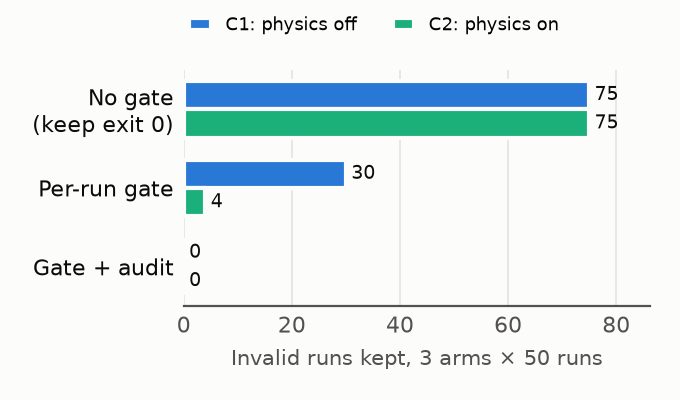
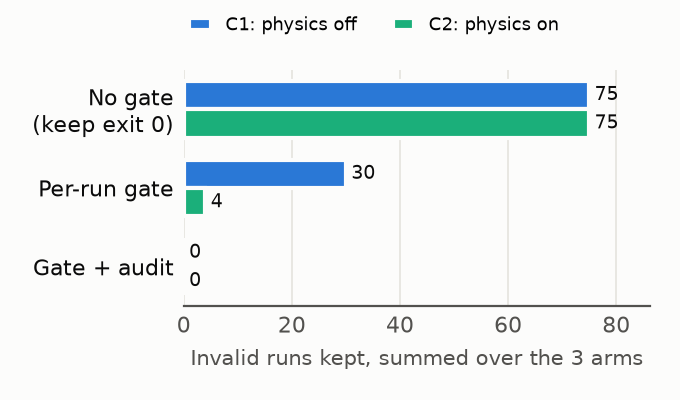
Report and figure: add C4

Changed region(s): [[0.2779, 0.87, 0.9574, 0.93]]

diff --git a/harness/campaign_report.py b/harness/campaign_report.py
@@ -1,8 +1,9 @@
-"""Campaigns C1, C2 and C3: one table per question, from the queues on disk.
+"""Campaigns C1 to C4: one table per question, from the queues on disk.
 
 Each campaign ran one fault plan (50 runs: 5 per fault kind, 10 clean) under
 the script, tier 1 (agent) and tier 0 (model). C1 had the physics bounds off,
-C2 and C3 on; in C3 the silent faults (rails, kinematic) persist on a retry.
+C2 to C4 on; in C3 the silent faults (rails, kinematic) persist on a retry, and
+C4 adds the plan faults, also persistent, with the plan-handoff bound live.
 Arms whose queue does not exist yet are skipped. Outcomes are scored, not skill labels: whether a lineage ended in a
 valid kept run, how many launches it cost, and whether a person had to step in.
 
@@ -10,7 +11,7 @@ valid kept run, how many launches it cost, and whether a person had to step in.
 - invalid kept: runs carrying a data-corrupting fault that stayed in the
   dataset with no gate (exit code 0), after the per-run gate, after the audit;
 - per fault kind: recovered, halted, launches;
-- physics on fresh runs: the live K⁺ physics failures in C2 and C3, and every
+- physics on fresh runs: the live K⁺ physics failures in C2 to C4, and every
   kept run checked after the fact with the current bounds.
 
     uv run python research/harness/campaign_report.py
@@ -30,8 +31,8 @@ from score_campaign import CORRUPTS_DATA, lineages, score
 from physics import check, load_bounds
 
 HARNESS = Path(__file__).resolve().parent
-CAMPAIGNS = ("c1", "c2", "c3")
-LIVE_PHYSICS = ("c2", "c3")
+CAMPAIGNS = ("c1", "c2", "c3", "c4")
+LIVE_PHYSICS = ("c2", "c3", "c4")
 ARMS = ("script", "agent", "model")
 NAMES = {"script": "script", "agent": "tier 1", "model": "tier 0"}
 # Faults every per-run check but physics misses: these count as "silent".
@@ -193,7 +194,7 @@ def main() -> int:
     lines.append("")
     lines.append(
         "physics, current bounds on every kept run after the fact (none of these"
-        " runs set the plan-handoff bound); C2 and C3 also live"
+        " runs set the plan-handoff bound); C2 to C4 also live"
     )
     for key, r in report.items():
         p = r["physics_after_the_fact"]

diff --git a/harness/plot_campaign.py b/harness/plot_campaign.py
@@ -28,11 +28,17 @@ from plot_results import SERIES, SURFACE, TEXT, TEXT_SECONDARY, _save, _style
 HARNESS = Path(__file__).resolve().parent
 REPORT = HARNESS / "campaign_report.json"
 POLICIES = {"script": "Script", "model": "Tier 0", "agent": "Tier 1"}
-CAMPAIGN_COLOR = {"c1": SERIES["script"], "c2": SERIES["tier1"], "c3": SERIES["tier0"]}
+CAMPAIGN_COLOR = {
+    "c1": SERIES["script"],
+    "c2": SERIES["tier1"],
+    "c3": SERIES["tier0"],
+    "c4": "#7a7975",
+}
 CAMPAIGN_NAME = {
     "c1": "C1: physics off",
     "c2": "C2: physics on",
     "c3": "C3: persistent silent faults",
+    "c4": "C4: plus plan faults",
 }
 
 
@@ -75,7 +81,7 @@ def invalid(report: dict) -> dict:
     ax.set_yticks(range(len(labels)), labels, fontsize=8, color=TEXT)
     ax.set_xlim(0, max(max(t.values()) for t in totals.values()) * 1.15)
     ax.set_xlabel(
-        "Invalid runs kept, 3 arms × 50 runs", fontsize=7.5, color=TEXT_SECONDARY
+        "Invalid runs kept, summed over the 3 arms", fontsize=7.5, color=TEXT_SECONDARY
     )
     handles, names = ax.get_legend_handles_labels()
     fig.legend(
